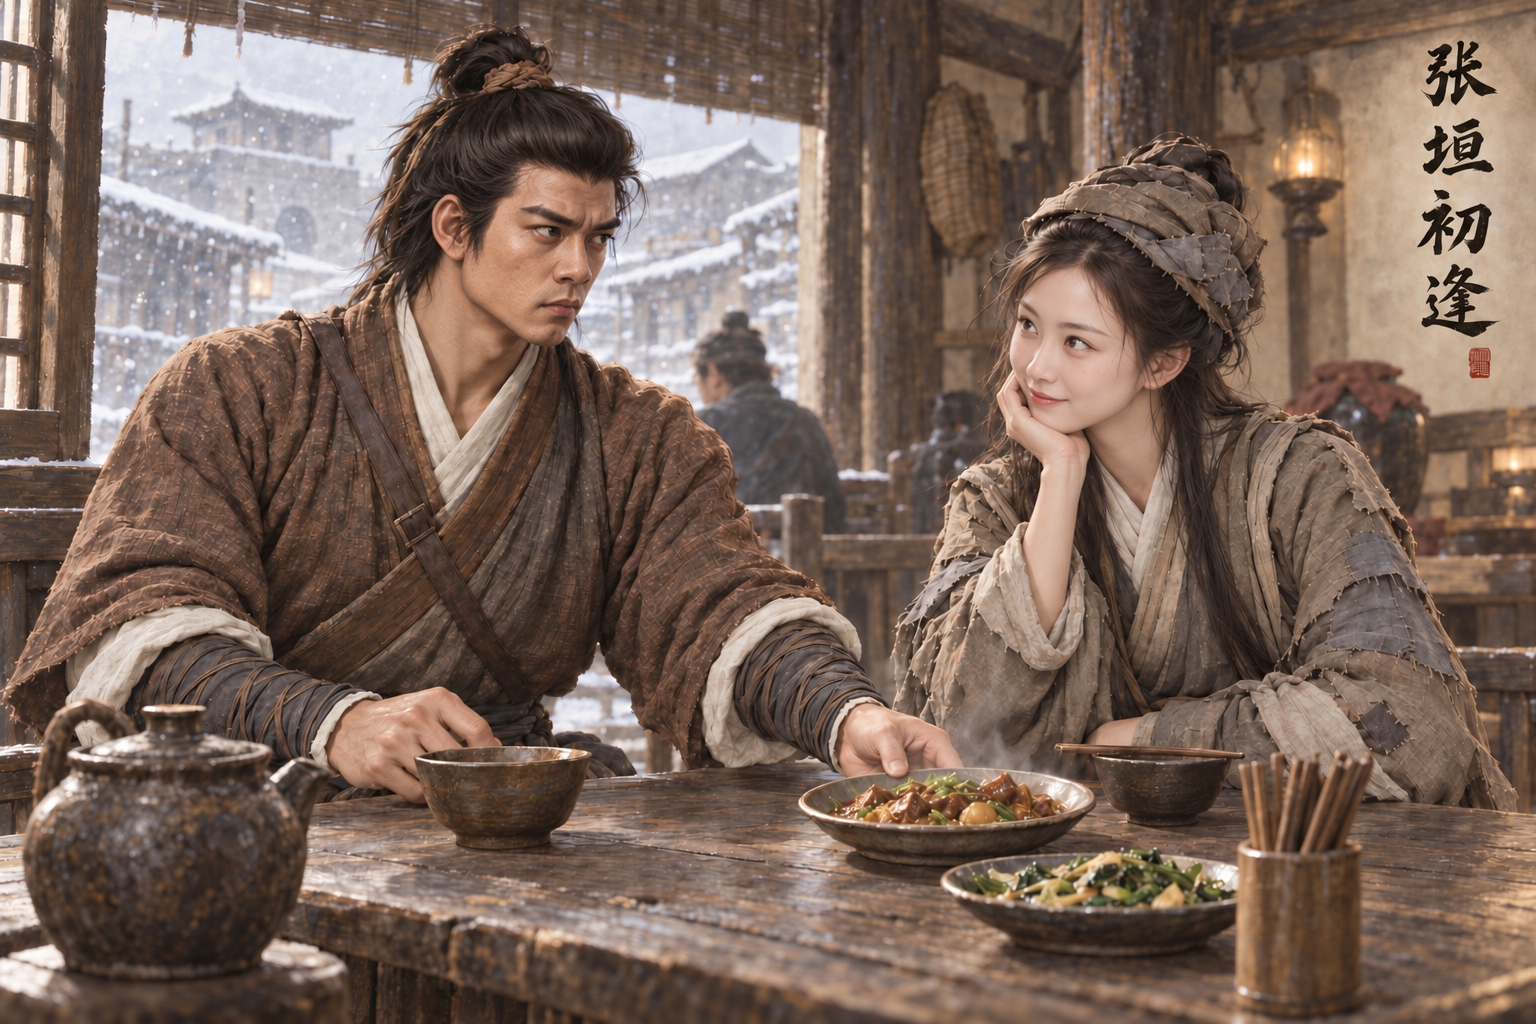
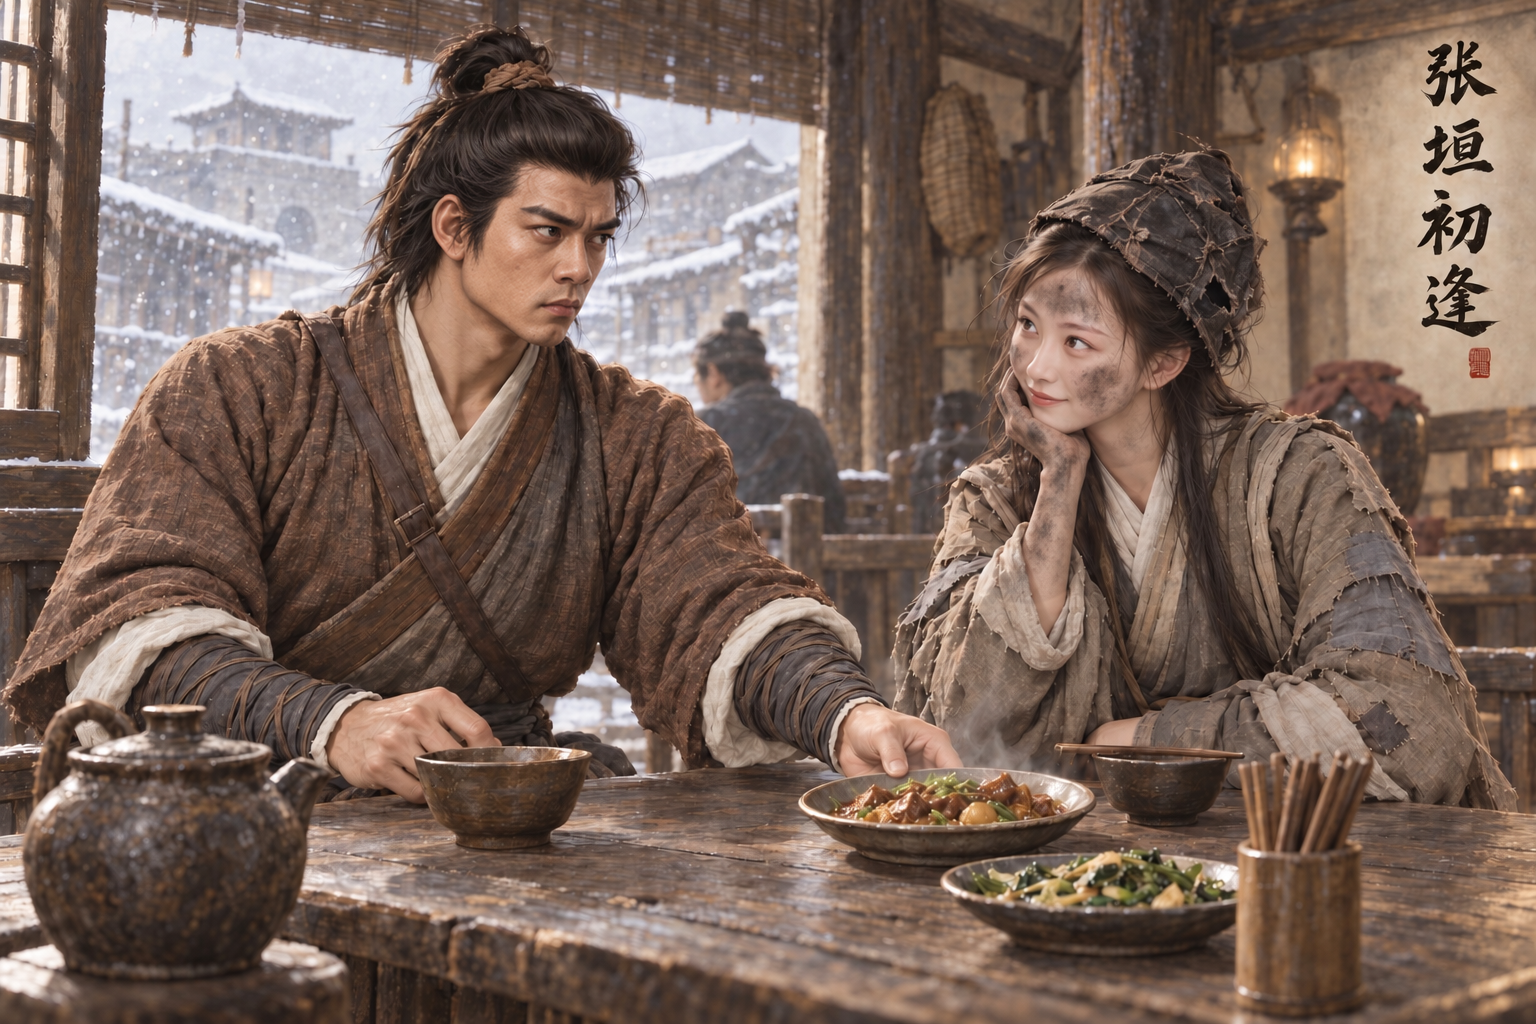
assets: AR-82 原著核对返修 郭蓉初逢插图同步破皮帽和脸手煤污
原著摘句已同步提示词；已打开验图；蒙版外0像素变化。

Executed-By: Codex gpt-6.1-sol（AR-82）

Changed region(s): [[0.6562, 0.125, 0.8438, 0.3438], [0.625, 0.3438, 0.75, 0.5938], [0.7188, 0.6875, 0.75, 0.7188]]

diff --git a/assets/default/prompts/scenes/ch02-shediao/cg_ch02_guorong_first_meet.md b/assets/default/prompts/scenes/ch02-shediao/cg_ch02_guorong_first_meet.md
@@ -61,3 +61,7 @@ composite_job: cg_ch02_guorong_first_meet.resume3
 排除项：不要文字、题字、字幕、水印、签名、Logo、边框或分镜格；不要未指定的多余人物（明确要求的远景群像除外）；不要幼态、儿童体态、性化处理、裸露或恋物特写；不要血腥特写、断肢、尸体堆叠或伤口细节；不要真人、演员、影视剧照复刻；不要多余肢体、手指错误、脸部融合、身份串脸、时代错装、现代物件、动漫风、摄影棚感、3D 塑料感。
 ```
 
+## 原著依据
+
+- 《射雕英雄传》第七回 比武招亲：“头上歪戴着一顶黑黝黝的破皮帽，脸上手上全是黑煤”；https://www.xuges.com/wuxia/jinyong/sdyxz/049.htm
+- AR-82 返修约束（本节优先于历史提示词）：只将右侧黄蓉高髻上的破布帽换为歪戴黑黝黝破皮帽、盖住发髻，在额头、脸颊与两只手加清楚黑煤污。她仍是小叫化男装乔装，原五官骨相、眼神、神情、面容身份和姿势不变。郭靖、全部其他人、食物桌椅、题字朱印、原衣服其余处与背景完全不动。
